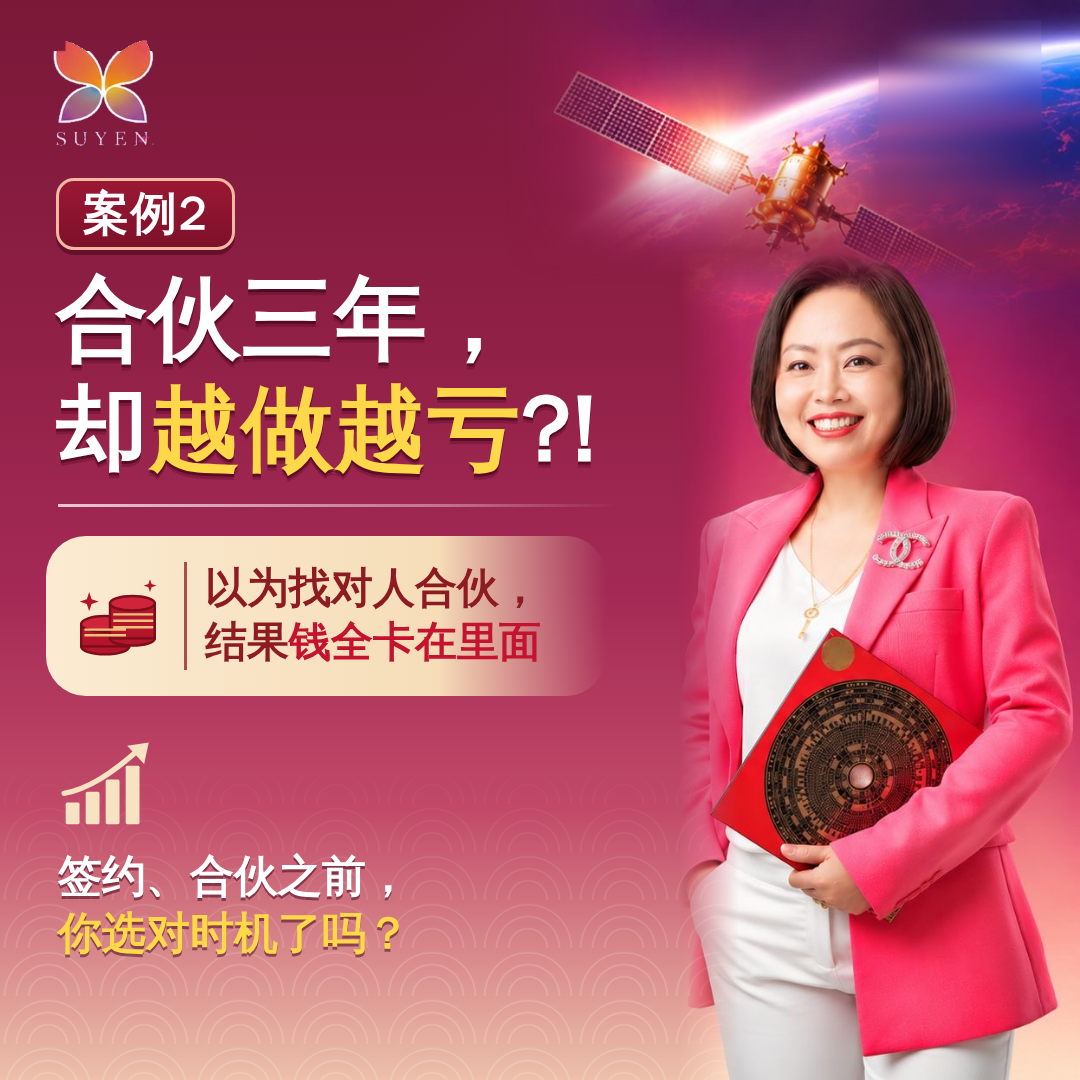
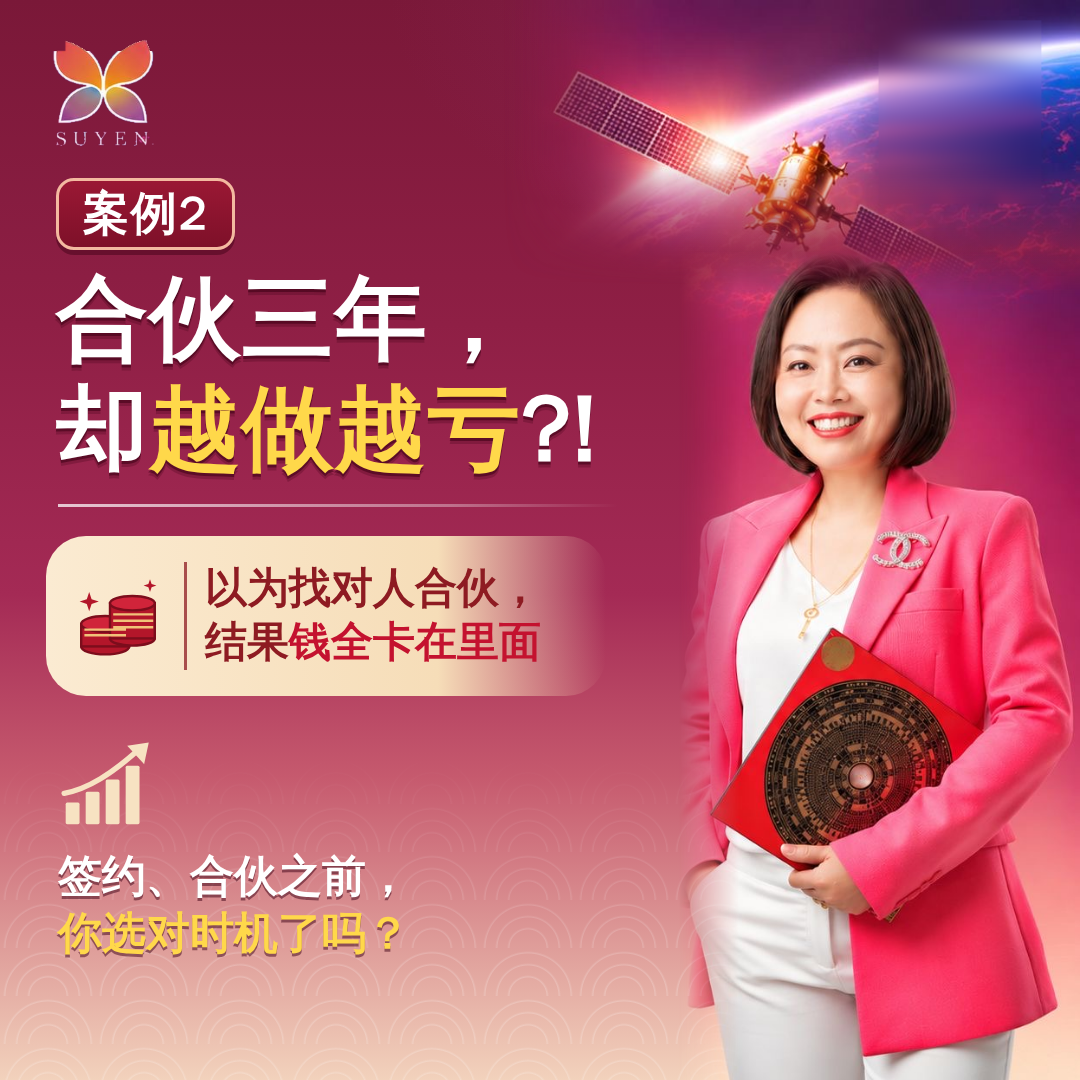
Match case layout to clean 案例1 cover; add 案例1 recreation
Claude-Session: https://claude.ai/code/session_018n9rFG8ibY8i8dztsc4j8G

Changed region(s): [[0.0, 0.7333, 0.6417, 0.8556]]

diff --git a/project/suyen2027conference/skills/suyen-content-thumbnail/templates/case.html b/project/suyen2027conference/skills/suyen-content-thumbnail/templates/case.html
@@ -21,7 +21,7 @@
   .bg{position:absolute;inset:0;
     background:
       radial-gradient(90% 45% at 90% 0%, rgba(150,50,120,.45), transparent 60%),
-      linear-gradient(180deg,#7a1838 0%,#8f1f45 30%,#a42a55 55%,#c24a68 75%,#ecc0aa 100%);}
+      linear-gradient(180deg,#7a1838 0%,#8f1f45 30%,#a42a55 55%,#c65a6e 72%,#f2d2bc 100%);}
   .wave{position:absolute;left:0;right:0;bottom:0;height:30%;opacity:.2;
     background-image:radial-gradient(circle at 50% 100%, transparent 18px, #fff 19px, transparent 21px, transparent 30px, #fff 31px, transparent 33px, transparent 42px,#fff 43px,transparent 45px);
     background-size:96px 48px;
@@ -53,13 +53,13 @@ const LAYOUT = {
   "9x16": { H:1920,
     logo:{x:84,y:40,w:160,h:165},
     deco:{x:400,y:0,w:680,h:334},
-    person:{x:560,y:760,w:520,h:1160},
-    face:{x:720,y:790,w:190,h:230},
+    person:{x:470,y:750,w:440,h:1290},
+    face:{x:560,y:800,w:200,h:250},
     tag:{x:76,y:268,h:92,size:60,padX:30},
     h1:{x:80,y:380,size:118},
     h2:{x:80,y:522,size:118},
-    rule:{x:84,y:712,w:700},
-    pill:{x:66,y:780,w:620,h:196,icon:120,size:50,gap:22},
+    rule:{x:84,y:712,w:760},
+    pill:{x:60,y:780,w:486,h:180,icon:104,size:46,gap:18},
     q:{x:84,y:1050,icon:130,size:52,gap:12},
     gridCrop:{y:240,h:1440}
   },
